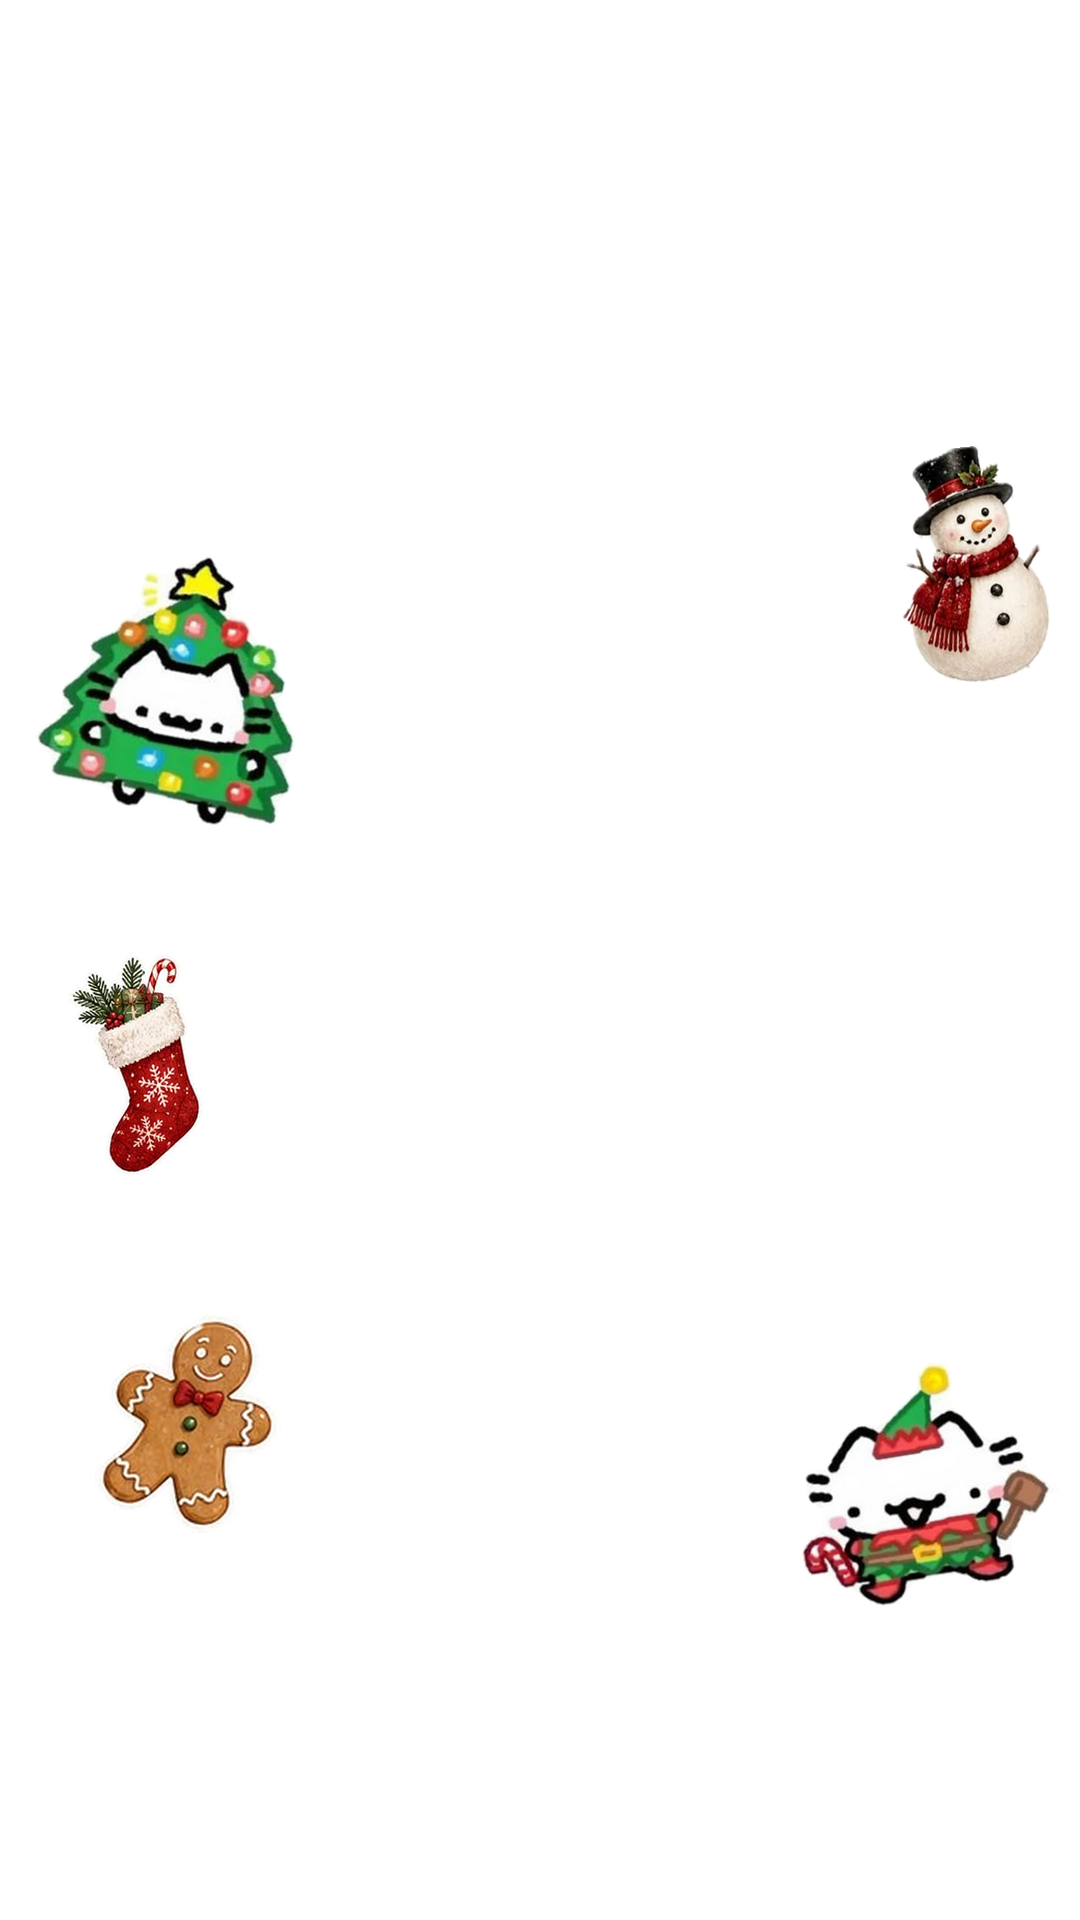
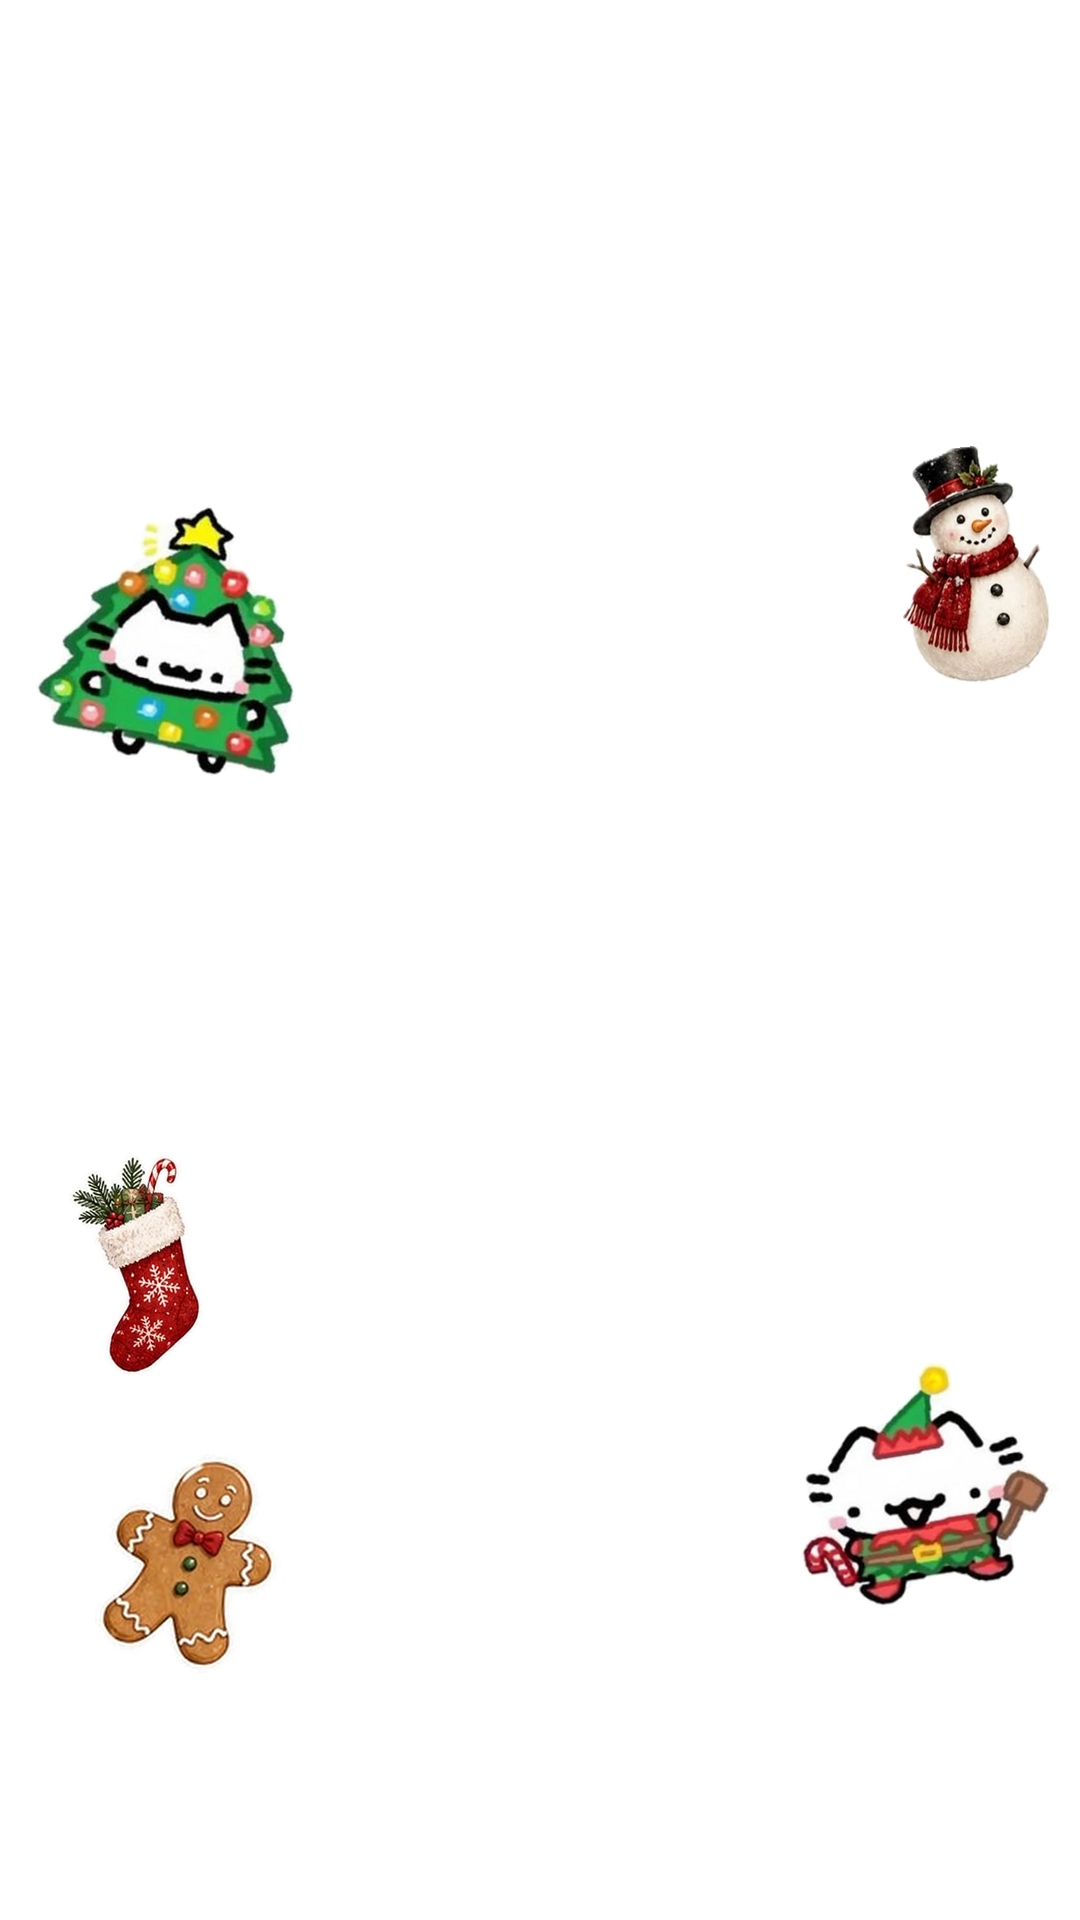
Farm Natal: gancho no meio, em duas linhas e cores pastel; stickers da esquerda mais baixos
Claude-Session: https://claude.ai/code/session_01EDeurVhqsz6meJn35JURnX

Changed region(s): [[0.0611, 0.5, 0.275, 0.875], [0.0306, 0.25, 0.275, 0.4375]]

diff --git a/CLAUDE.md b/CLAUDE.md
@@ -39,6 +39,7 @@ Toda correção nova que a Fran fizer entra aqui na mesma hora, com data, para n
 - **Vídeos de Natal e achadinhos podem ter cor.** O preto e branco vale para os Reels de provador. Para o CapCut (Mac), entregar um kit: vídeo cortado, legenda .srt, PNGs e roteiro de tempos.
 - **Introdução (corrigido em 03/11):** os stickers **não trocam**. Os mesmos ficam parados na tela e têm um **leve movimento a cada 0,5 s** (giram, deslocam e mudam de tamanho um pouquinho, estilo stop-motion). Gerados por `scripts/stickers_intro.py` a partir do `layout_intro.json` do projeto, longe do rosto e da peça.
 - **Stickers aprovados ficam em `projetos/<nome>/stickers/`** (fora do git, porque são de terceiros). Origem: pins que a Fran manda. Recortar a cartela em PNGs, montar a folha numerada e esperar ela escolher os códigos.
+- **Gancho dos vídeos de Natal (03/11):** texto **no meio da tela**, quebrado em linhas ("Achadinhos" ENTER "de Natal"), em **cores pastel de Natal** (vermelho/rosa pastel #EE8E9C e verde pastel #7FC497), Playfair Display em negrito, com contorno branco fino e sombra leve para dar leitura.
 - **Abertura:** a Fran grava a apresentação ("Achadinhos de Natal da Farm…") num arquivo separado e menor. **Antes de propor a abertura, olhar TODOS os vídeos da pasta do Drive**, não só o mais recente.
 
 ## Conferência antes de entregar
